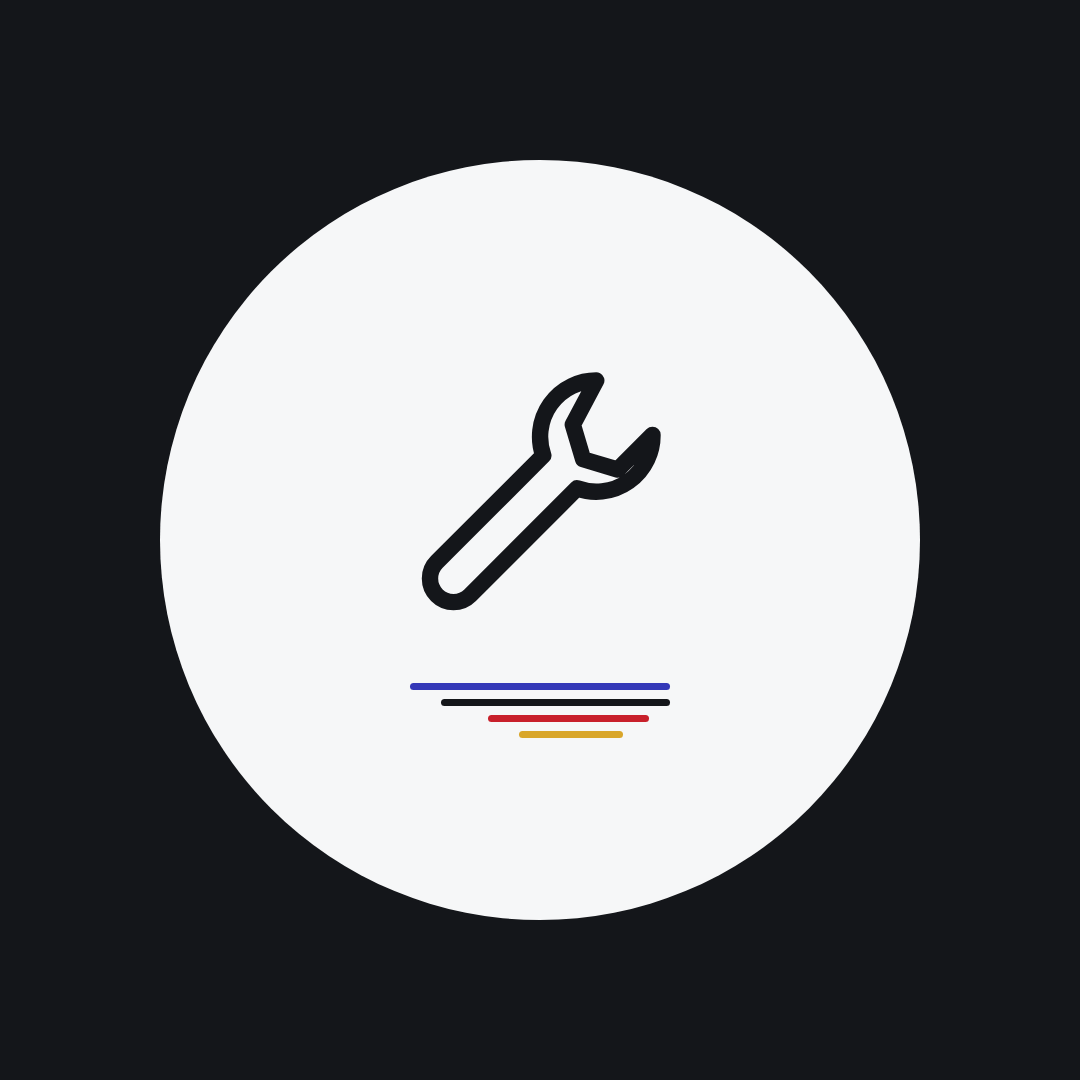
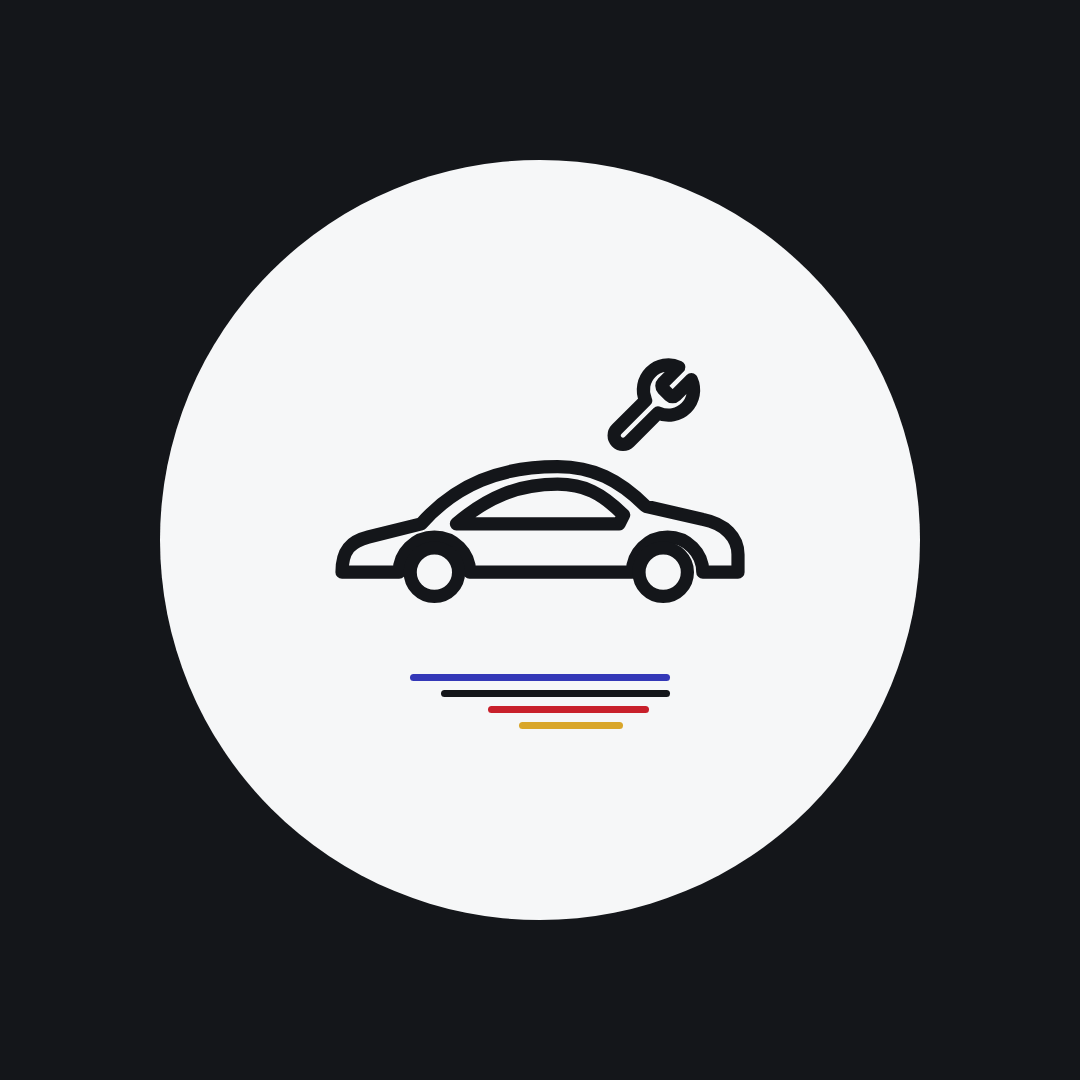
Portada de destacada Proyectos: deportivo con llave
Claude-Session: https://claude.ai/code/session_01Waia73eHNWtSrif5AzmwHD

Changed region(s): [[0.3056, 0.3361, 0.7028, 0.5806], [0.3667, 0.6111, 0.6417, 0.7028]]

diff --git a/herramientas/build/generar-posts.js b/herramientas/build/generar-posts.js
@@ -38,7 +38,7 @@ p{font-size:42px;line-height:1.35}.claro p{color:#5b6270}.oscuro p{color:#c9ccd3
 .foto{border:4px dashed #c9ccd3;border-radius:36px;height:560px;display:grid;place-items:center;color:#9a9ea8;font-size:36px;font-family:'IBM Plex Mono',monospace;text-align:center;padding:40px}
 .hl{width:1080px;height:1080px;display:grid;place-items:center;background:#14161a}
 .hl>div{width:760px;height:760px;border-radius:50%;background:#f6f7f8;display:grid;place-items:center;align-content:center;gap:40px}
-.hl svg{width:300px;height:300px}
+.hl svg{width:300px;height:300px}.hl svg[viewBox="0 0 100 64"]{width:440px;height:282px}
 .hl .f{width:260px}
 `;
 
@@ -87,7 +87,7 @@ const DESTACADAS = [
   ["vende-el-tuyo", "Vende el tuyo", "M32 8v32m-14-14 14-14 14 14M10 52h44"],
   ["guias", "Guías", "M14 8h28l10 10v38H14zm28 0v10h10M22 30h20m-20 10h20"],
   ["como-trabajamos", "Cómo trabajamos", "M28 12a16 16 0 1 0 0 32 16 16 0 0 0 0-32zm12 28 14 14"],
-  ["proyectos", "Proyectos", "M44 8a12 12 0 0 0-11.3 16L10 46.7a5 5 0 0 0 7.1 7.1L39.9 31A12 12 0 0 0 56 19.6l-7.4 7.4-7.4-2.2-2.2-7.4z"],
+  ["proyectos", "Proyectos", '<svg viewBox="0 0 100 64"><g fill="none" stroke="#14161a" stroke-width="3" stroke-linecap="round" stroke-linejoin="round"><path d="M5 50c0-5 2-7 6-8l12-3c8-9 18-13 31-13 8 0 14 3 20 9l13 3c5 1 8 4 8 8v4h-8a8 8 0 0 0-16 0H34a8 8 0 0 0-16 0z"/><path d="M31 39c7-6 14-9 23-9 6 0 10 2 15 7l-1 2z"/><circle cx="26" cy="50" r="5.5"/><circle cx="78" cy="50" r="5.5"/><g transform="translate(64 1) scale(.95)" stroke-width="3.16"><path d="M14.7 6.3a1 1 0 0 0 0 1.4l1.6 1.6a1 1 0 0 0 1.4 0l3.77-3.77a6 6 0 0 1-7.94 7.94l-6.91 6.91a2.12 2.12 0 0 1-3-3l6.91-6.91a6 6 0 0 1 7.94-7.94l-3.76 3.76z"/></g></g></svg>'],
 ];
 
 (async () => {
@@ -106,7 +106,7 @@ const DESTACADAS = [
   }
   await p.setViewportSize({ width: 1080, height: 1080 });
   for (const [id, , d] of DESTACADAS) {
-    await p.setContent(base + `<div class="hl"><div><svg viewBox="0 0 64 64"><path d="${d}" fill="none" stroke="#14161a" stroke-width="3.5" stroke-linecap="round" stroke-linejoin="round"/></svg>${F}</div></div></body></html>`, { waitUntil: "networkidle" });
+    await p.setContent(base + `<div class="hl"><div>${d.startsWith("<svg") ? d : `<svg viewBox="0 0 64 64"><g fill="none" stroke="#14161a" stroke-width="3.5" stroke-linecap="round" stroke-linejoin="round">${d.startsWith("<") ? d : `<path d="${d}"/>`}</g></svg>`}${F}</div></div></body></html>`, { waitUntil: "networkidle" });
     await p.screenshot({ path: path.join(OUT, `destacada-${id}.png`) });
     total++;
   }
